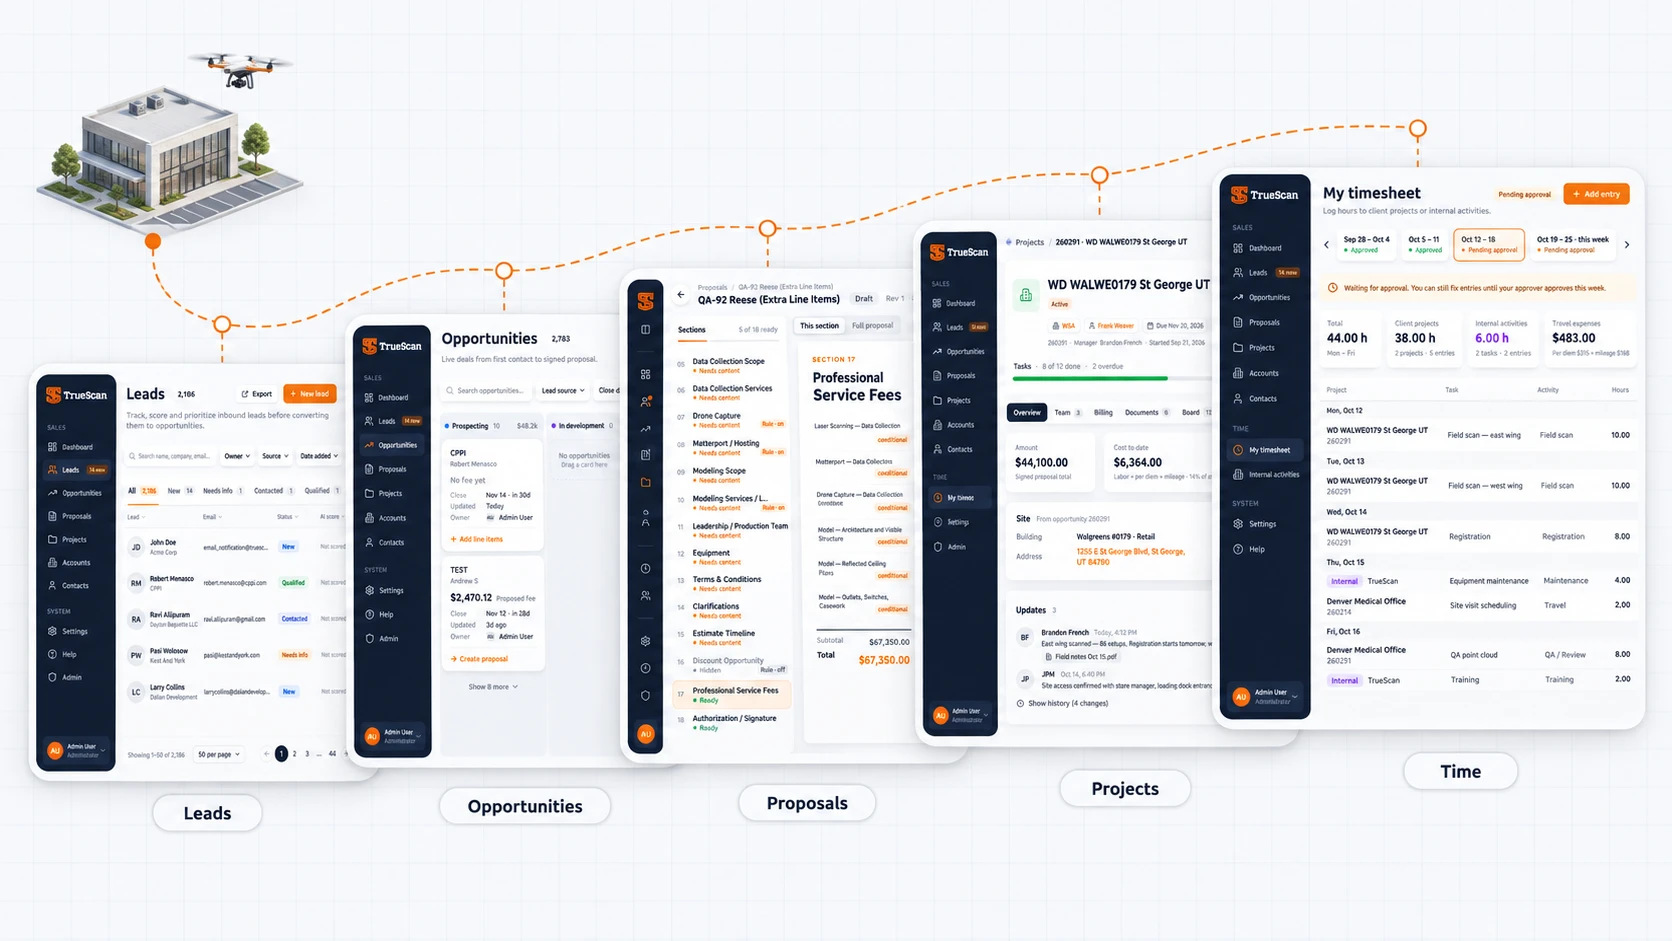
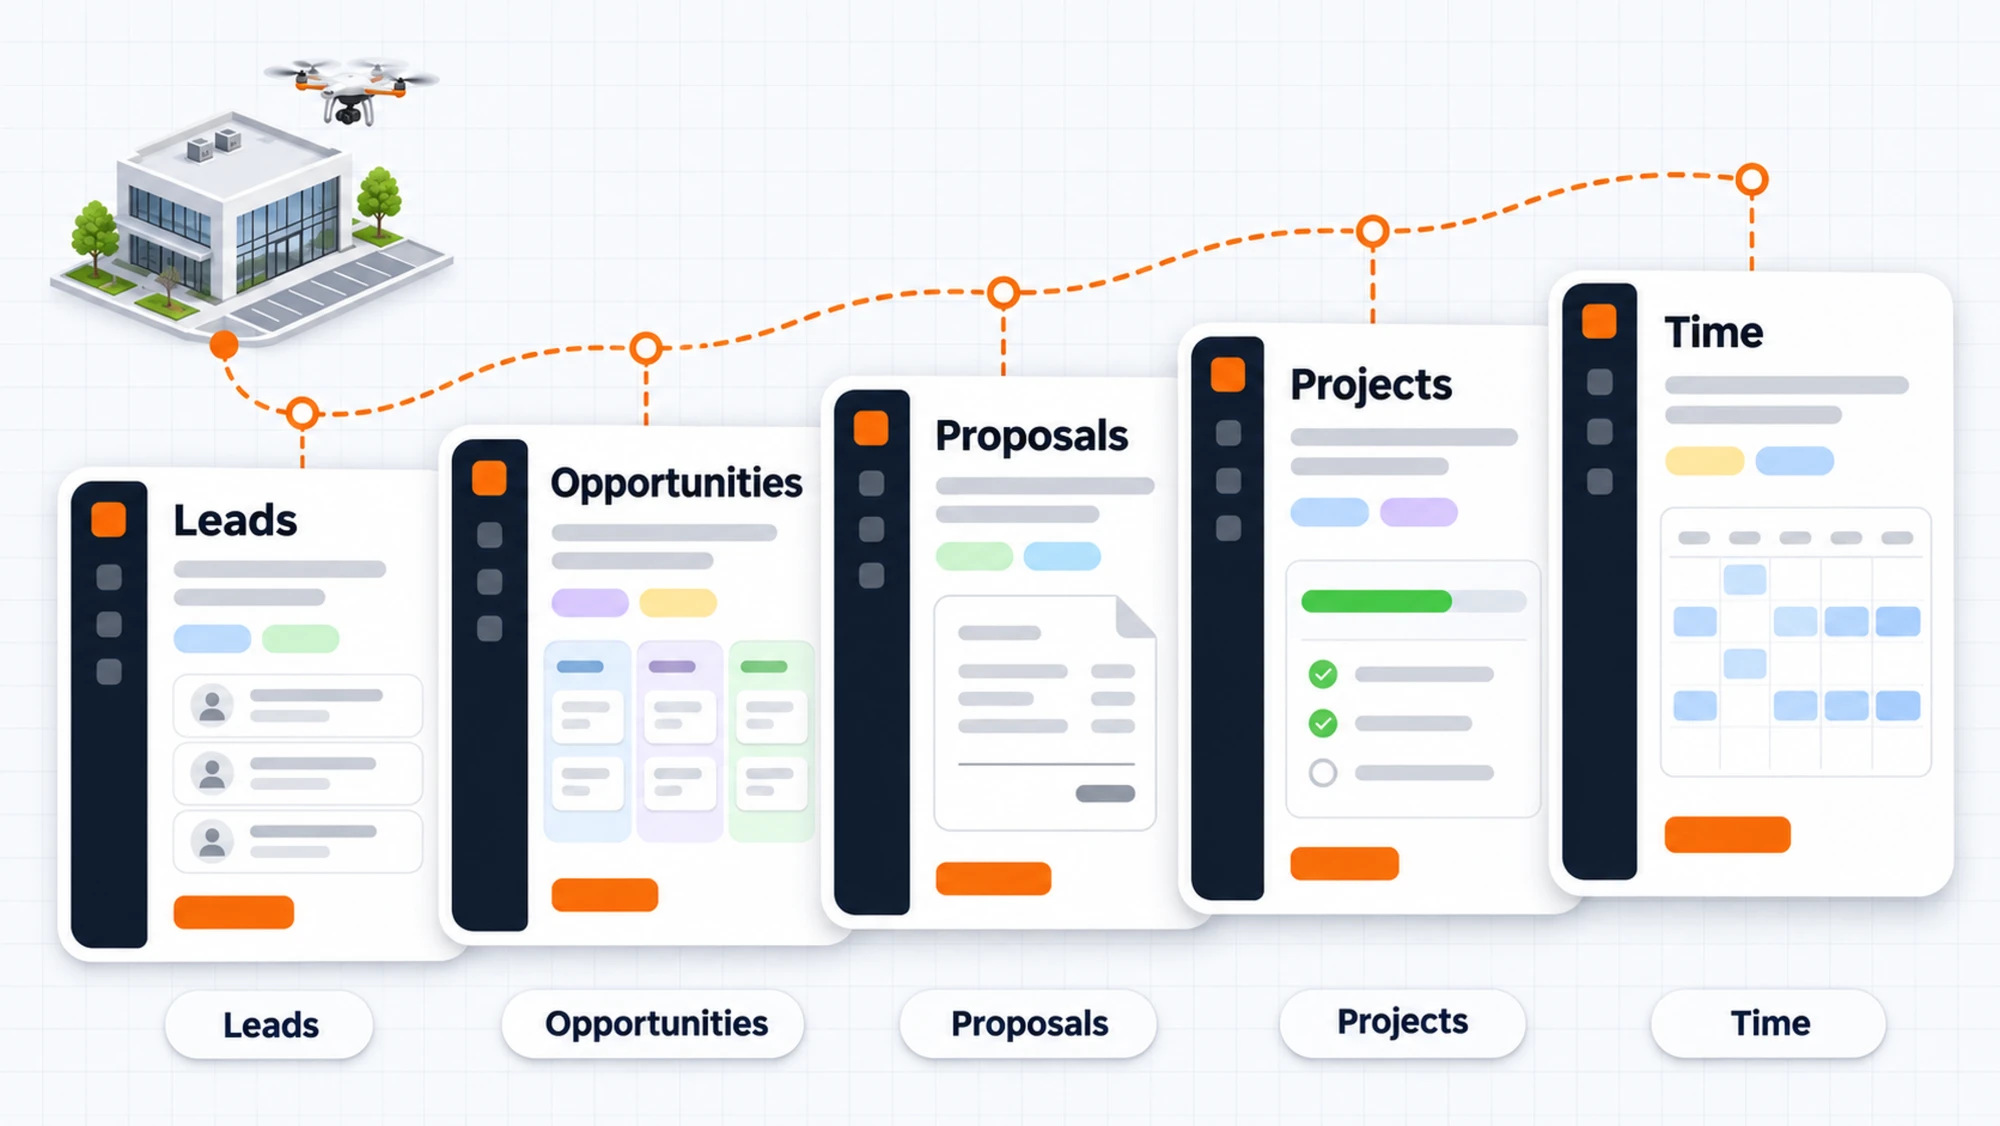
TrueScan: simplified, sharper platform route visual
Claude-Session: https://claude.ai/code/session_019s9hMNDEcLkm54bZicL17g

diff --git a/cases/truescan.html b/cases/truescan.html
@@ -286,7 +286,7 @@ figure{margin:0}
       <p class="body rv">One record travels through five modules. Data entered once moves forward: a converted lead becomes a deal, the deal fills the proposal, a won deal opens the project, and approved time becomes its cost.</p>
     </div>
     <figure class="fig rv">
-      <div class="media nat"><img src="../img/cases/truescan/platform-route.jpg?v=3" alt="Platform route: Leads, Opportunities, Proposals, Projects, Time — from a scanned building to a costed project" loading="lazy"></div>
+      <div class="media nat"><img src="../img/cases/truescan/platform-route.jpg?v=4" alt="Platform route: Leads, Opportunities, Proposals, Projects, Time — from a scanned building to a costed project" loading="lazy"></div>
     </figure>
   </div>
 </section>
